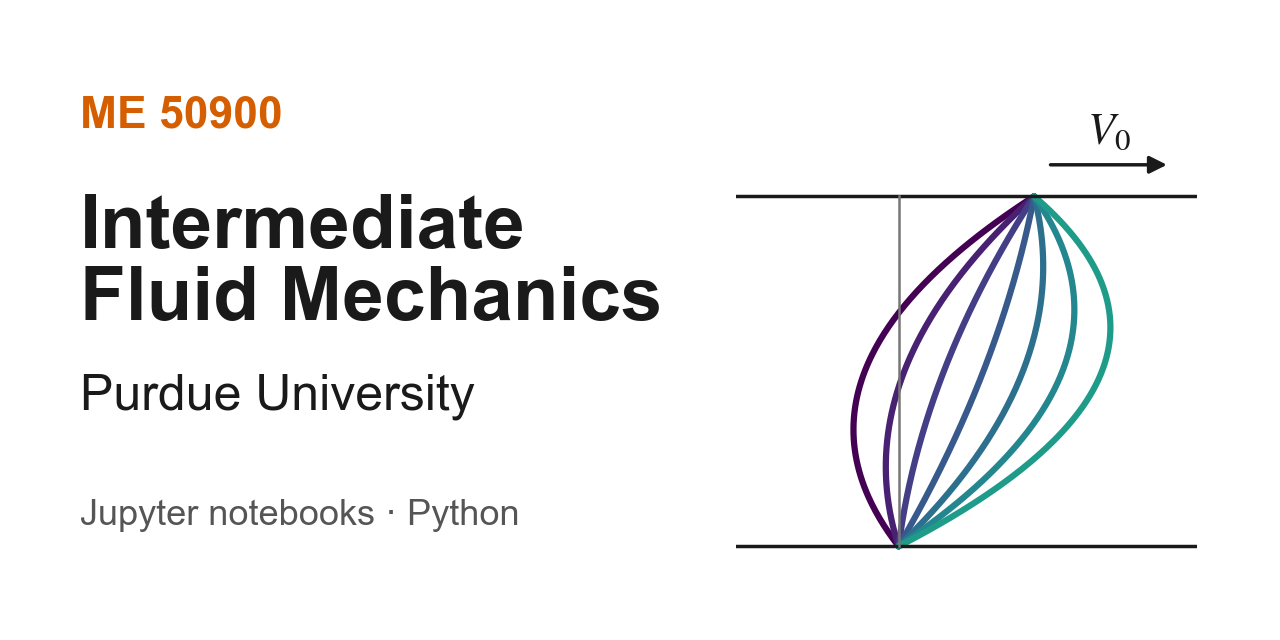
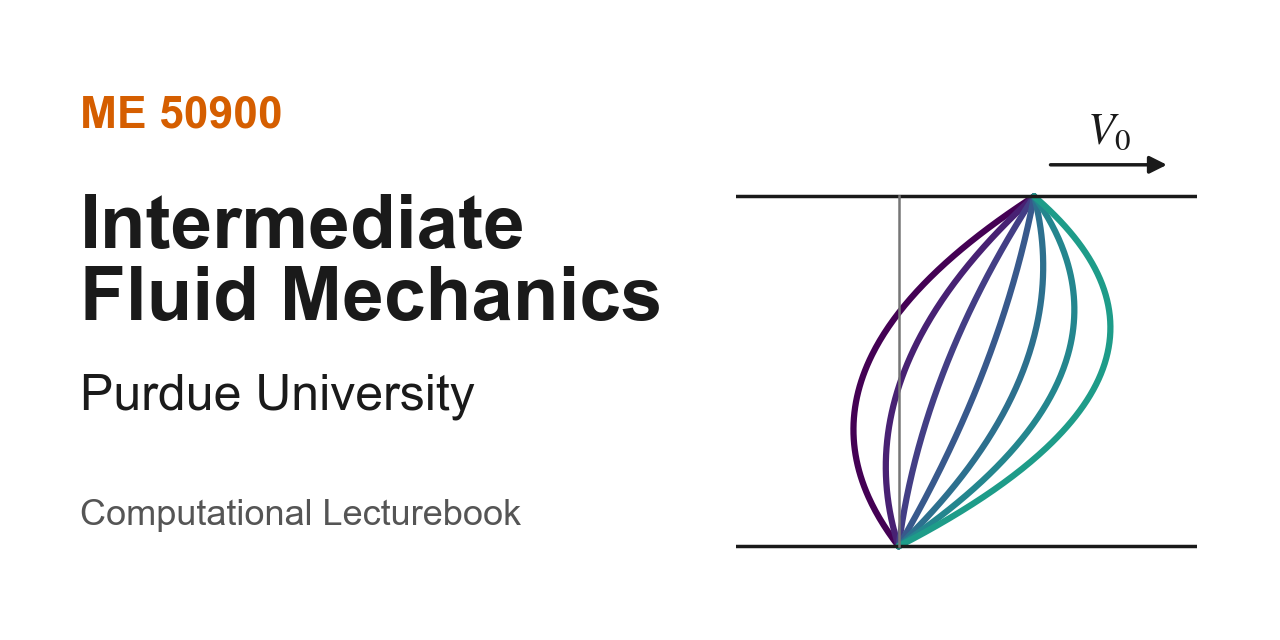
retitle as Computational Lecturebook.

Changed region(s): [[0.0625, 0.7812, 0.4062, 0.8438]]

diff --git a/README.md b/README.md
@@ -6,9 +6,9 @@
 [![Last commit](https://img.shields.io/github/last-commit/ichristov/intermediate-fluid-mechanics)](https://github.com/ichristov/intermediate-fluid-mechanics/commits/main)
 [![GitHub stars](https://img.shields.io/github/stars/ichristov/intermediate-fluid-mechanics?style=social)](https://github.com/ichristov/intermediate-fluid-mechanics)
 
-![Schematic of four flows from the course, under the printed text ME 50900, Intermediate Fluid Mechanics, Purdue University, Computational lecturebook. Left to right: a family of velocity profiles between two parallel walls; velocity profiles spreading upward from a suddenly moved plate over time; three curves starting at a wall, one decaying with height, one leveling off at a constant value, and one growing without bound; and a sequence of eddies in a wedge that opens upward, alternating in color and shrinking toward the corner at the bottom.](assets/cover.png)
+![Schematic of four flows from the course, under the printed text ME 50900, Intermediate Fluid Mechanics, Purdue University, Computational Lecturebook. Left to right: a family of velocity profiles between two parallel walls; velocity profiles spreading upward from a suddenly moved plate over time; three curves starting at a wall, one decaying with height, one leveling off at a constant value, and one growing without bound; and a sequence of eddies in a wedge that opens upward, alternating in color and shrinking toward the corner at the bottom.](assets/cover.png)
 
-Jupyter-based computational lecturebook for ME 50900 &ndash; Intermediate Fluid Mechanics at Purdue University as taught by Prof. [Ivan C. Christov](https://christov.tmnt-lab.org).
+Jupyter-based computational lecturebook for ME 50900 &ndash; Intermediate Fluid Mechanics at Purdue University, as taught by Prof. [Ivan C. Christov](https://christov.tmnt-lab.org).
 The notebooks cover tensors, kinematics, unidirectional flows, the Navier&ndash;Stokes equations, dimensional analysis, similarity solutions, ideal flow, boundary layers, Stokes flow, and lubrication theory, using Python with SymPy for symbolic calculations and Matplotlib for visualizations.
 They serve as hands-on demos in lectures, problem-set solutions, and enrichment activities, and each one opens in Google Colab with nothing to install.
 
@@ -100,7 +100,7 @@ primer, writing tips, and fun web resources.
 
 If you use these notebooks in your teaching or research, please cite them as:
 
-I. C. Christov, _ME 50900 &ndash; Intermediate Fluid Mechanics at Purdue University: Jupyter notebooks_, Zenodo, 2026. [doi:10.5281/zenodo.22969555](https://doi.org/10.5281/zenodo.22969555)
+I. C. Christov, _ME 50900 &ndash; Intermediate Fluid Mechanics &ndash; Computational Lecturebook_, Zenodo, 2026. [doi:10.5281/zenodo.22969555](https://doi.org/10.5281/zenodo.22969555)
 
 This DOI always points to the latest version. Each release also has its own DOI, listed on the Zenodo page. For BibTeX or APA, use the **Cite this repository** button on the right side of the repository page.
 
